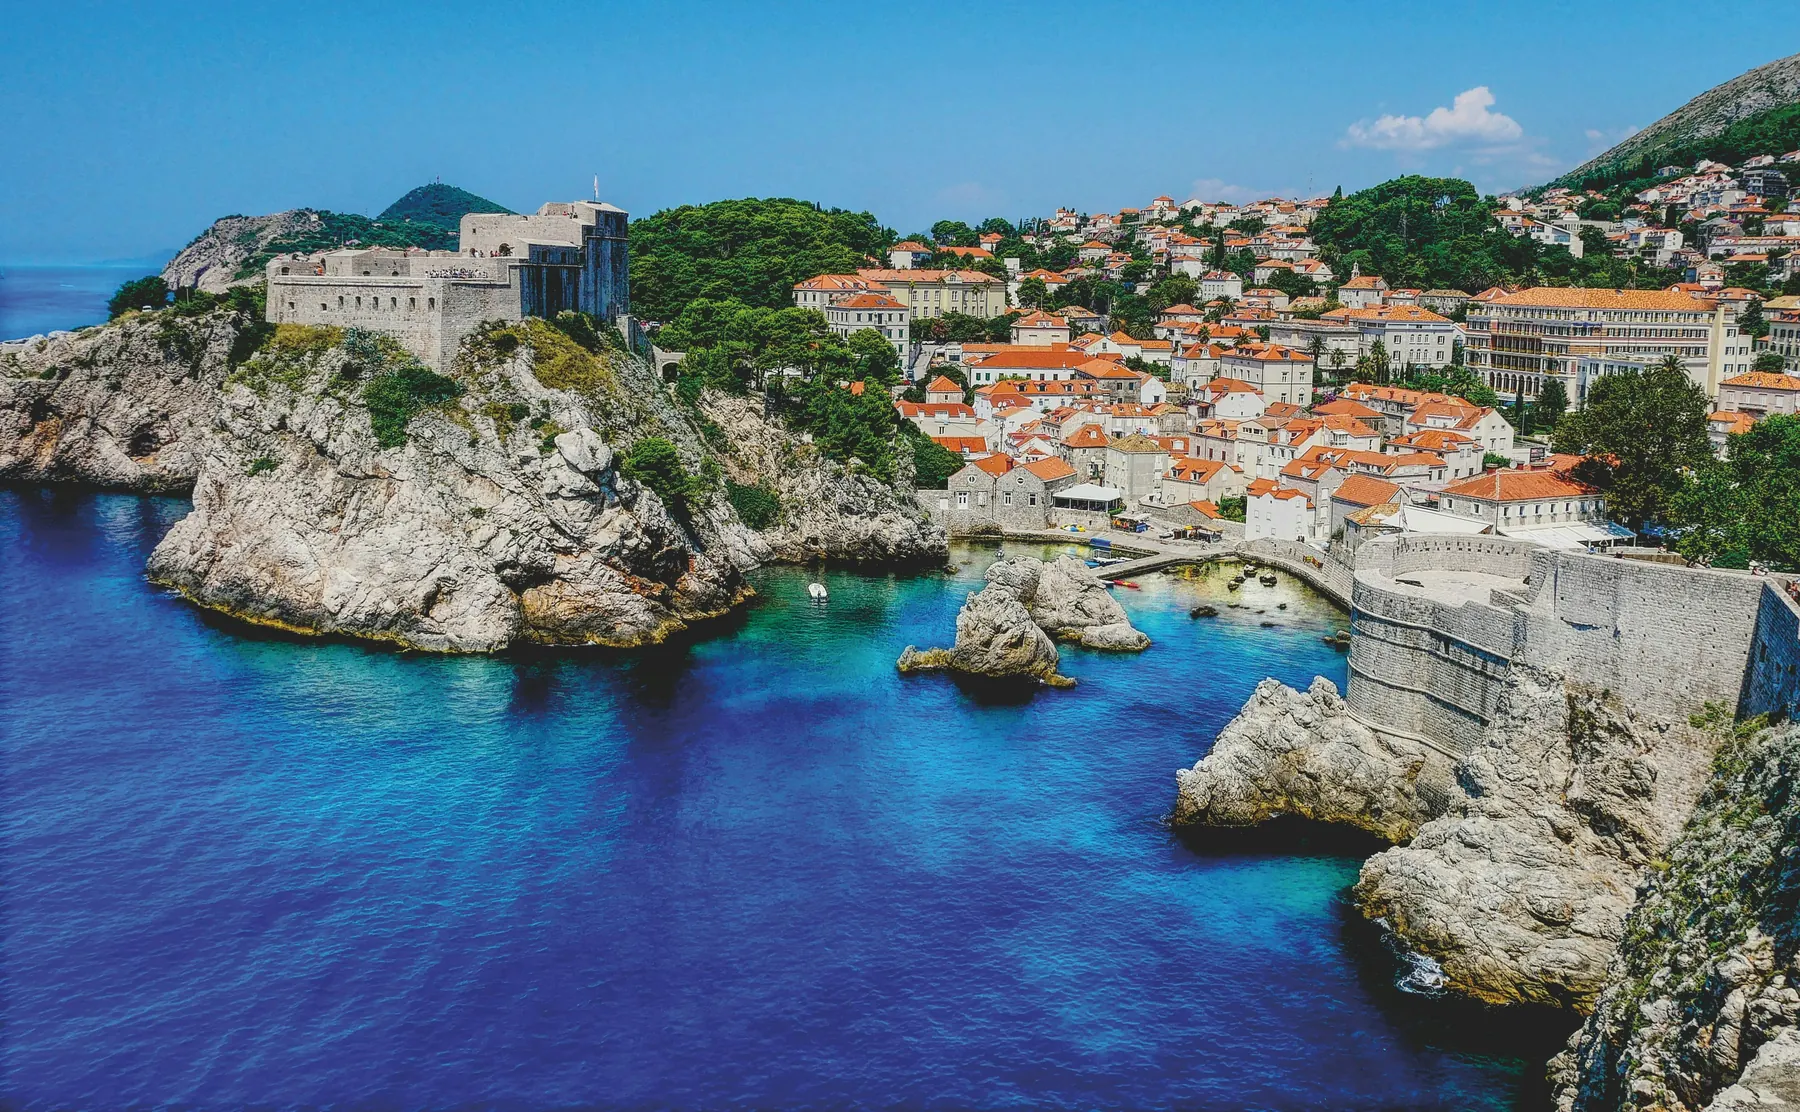
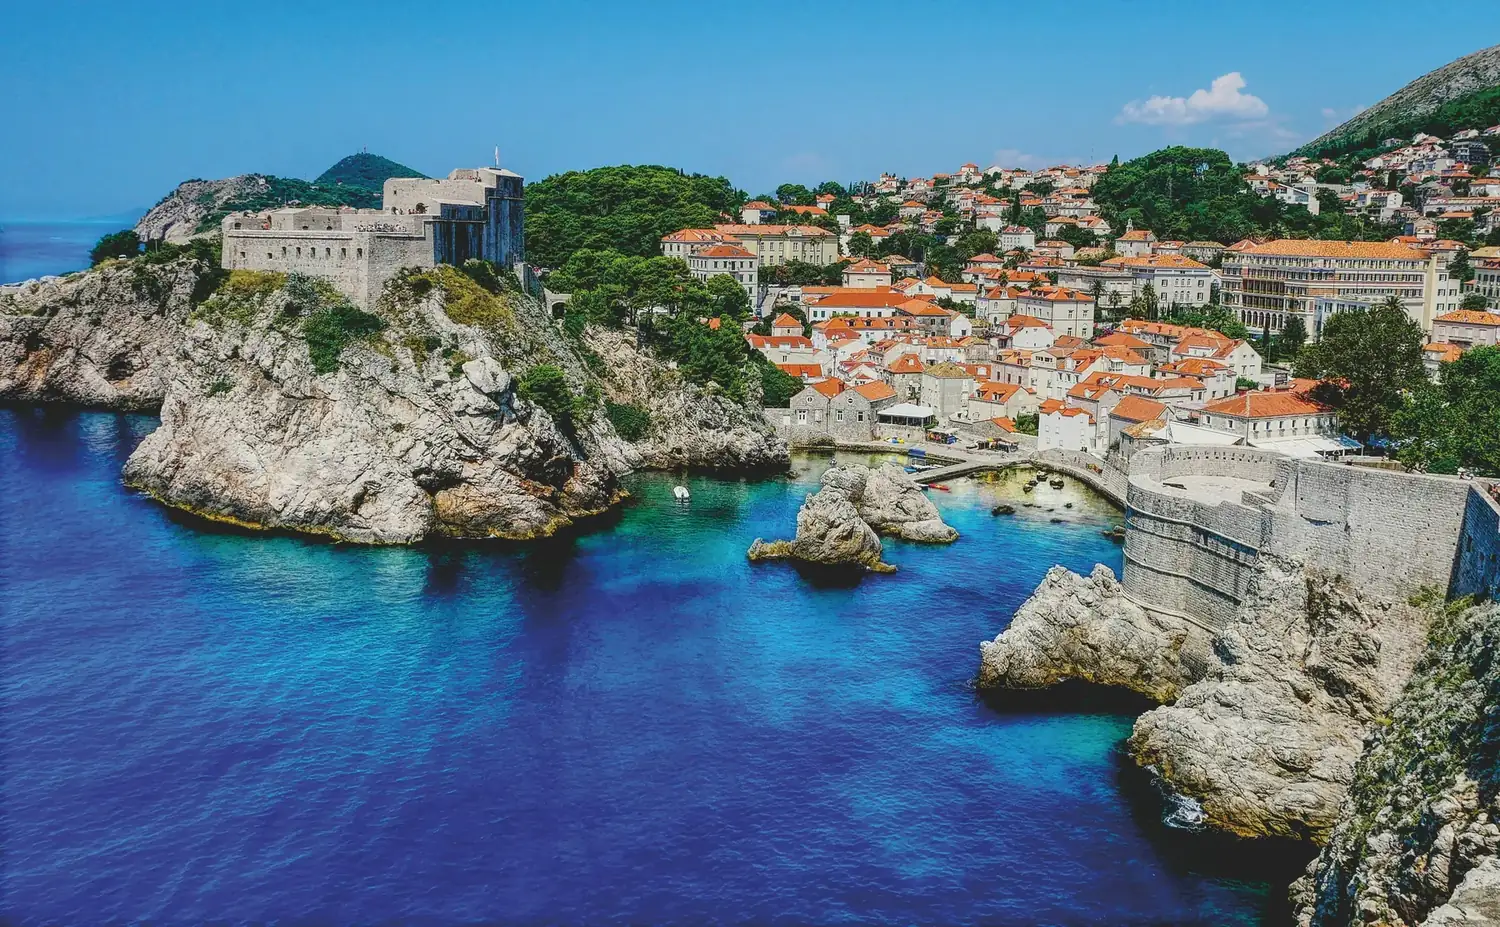
SEO + performance pass
Performance:
- Recompress heavy images (beyond 634->297KB, lovrijenac 453->241KB,
  DubrovnikTale 409->131KB, coast 254->134KB, dubrovnik 175->88KB) ~1MB saved
- Add width/height to all 15 images (prevents layout shift / CLS)
- Load Google Fonts non-render-blocking (media=print onload + noscript)
- Add .htaccess: gzip/brotli compression, 1-year asset caching,
  HTTPS + non-www redirects, security headers, block .git/source files

SEO:
- Add robots.txt and sitemap.xml
- Wrap page content in a <main> landmark
- Add og:image width/height for richer social previews

diff --git a/index.html b/index.html
@@ -22,6 +22,8 @@
 <meta property="og:title" content="Ragusa Tuk Tours — Private Tuk Tuk Tours of Dubrovnik" />
 <meta property="og:description" content="Private, eco-friendly Tuk Tuk journeys through Dubrovnik. The Old Town, Mount Srđ, hidden coves and panoramic Adriatic views — with a local guide." />
 <meta property="og:image" content="https://ragusatuktours.hr/assets/tuktuk-hero-wide.webp" />
+<meta property="og:image:width" content="1920" />
+<meta property="og:image:height" content="1440" />
 <meta property="og:image:alt" content="Our electric tuk tuk overlooking Dubrovnik Old Town and the Adriatic" />
 <meta property="og:locale" content="en_US" />
 
@@ -39,7 +41,8 @@
 <link rel="preconnect" href="https://fonts.gstatic.com" crossorigin />
 <link rel="preload" as="image" href="assets/tuktuk-hero.webp" media="(max-width: 900px)" fetchpriority="high" />
 <link rel="preload" as="image" href="assets/tuktuk-hero-wide.webp" media="(min-width: 901px)" fetchpriority="high" />
-<link href="https://fonts.googleapis.com/css2?family=Instrument+Serif:ital@0;1&family=Inter:wght@300;400;500;600&display=swap" rel="stylesheet" />
+<link rel="stylesheet" href="https://fonts.googleapis.com/css2?family=Instrument+Serif:ital@0;1&family=Inter:wght@300;400;500;600&display=swap" media="print" onload="this.media='all'" />
+<noscript><link rel="stylesheet" href="https://fonts.googleapis.com/css2?family=Instrument+Serif:ital@0;1&family=Inter:wght@300;400;500;600&display=swap" /></noscript>
 
 
 <!-- Structured data: TravelAgency + Tour offerings -->
@@ -982,7 +985,7 @@
     </div>
 
     <a class="nav-logo" href="#top" aria-label="Ragusa Tuk Tours home">
-      <img src="assets/logo.webp" alt="Ragusa Tuk Tours" />
+      <img width="600" height="600" src="assets/logo.webp" alt="Ragusa Tuk Tours" />
       <span class="marque">Ragusa <em>Tuk Tours</em></span>
     </a>
 
@@ -1019,11 +1022,12 @@
 </div>
 
 <!-- ======================== HERO ======================== -->
+<main>
 <section class="hero" id="top">
   <div class="hero-media">
     <picture>
       <source media="(min-width: 901px)" srcset="assets/tuktuk-hero-wide.webp" />
-      <img src="assets/tuktuk-hero.webp" alt="Our electric tuk tuk overlooking Dubrovnik Old Town and the Adriatic" fetchpriority="high" decoding="async" />
+      <img width="1500" height="2000" src="assets/tuktuk-hero.webp" alt="Our electric tuk tuk overlooking Dubrovnik Old Town and the Adriatic" fetchpriority="high" decoding="async" />
     </picture>
   </div>
   <div class="hero-grid">
@@ -1167,7 +1171,7 @@
       </a>
     </div>
     <div class="tour-photo">
-      <img src="assets/Citywalls.webp" alt="Dubrovnik city walls" loading="lazy" decoding="async" />
+      <img width="736" height="1104" src="assets/Citywalls.webp" alt="Dubrovnik city walls" loading="lazy" decoding="async" />
     </div>
   </article>
 
@@ -1188,7 +1192,7 @@
       </a>
     </div>
     <div class="tour-photo">
-      <img src="assets/DbkSunset.webp" alt="Golden sunset" loading="lazy" decoding="async" />
+      <img width="736" height="414" src="assets/DbkSunset.webp" alt="Golden sunset" loading="lazy" decoding="async" />
     </div>
   </article>
 
@@ -1209,14 +1213,14 @@
       </a>
     </div>
     <div class="tour-photo">
-      <img src="assets/DubrovnikTale.webp" alt="Dubrovnik tale by tuk tuk — Old Town framed through the ancient walls" loading="lazy" decoding="async" />
+      <img width="1080" height="1620" src="assets/DubrovnikTale.webp" alt="Dubrovnik tale by tuk tuk — Old Town framed through the ancient walls" loading="lazy" decoding="async" />
     </div>
   </article>
 </section>
 
 <!-- ======================== CINEMA ======================== -->
 <section class="cinema">
-  <img src="assets/beyond.webp" alt="Dubrovnik's ancient city walls above a turquoise cove" loading="lazy" decoding="async" />
+  <img width="1500" height="1125" src="assets/beyond.webp" alt="Dubrovnik's ancient city walls above a turquoise cove" loading="lazy" decoding="async" />
   <div class="cinema-copy">
     <div class="top">
       <span>Interlude</span>
@@ -1338,42 +1342,42 @@
 
     <div class="gal-grid reveal">
       <div class="gal-cell g1">
-        <img src="assets/dubrovnik.webp" alt="Dubrovnik Old Town at dusk" loading="lazy" decoding="async" />
+        <img width="1500" height="999" src="assets/dubrovnik.webp" alt="Dubrovnik Old Town at dusk" loading="lazy" decoding="async" />
         <span class="num">Plate 01</span>
         <span class="cap">Old Town, last light</span>
       </div>
       <div class="gal-cell g2">
-        <img src="assets/lovrijenac.webp" alt="Fort Lovrijenac and the coast" loading="lazy" decoding="async" />
+        <img width="1500" height="927" src="assets/lovrijenac.webp" alt="Fort Lovrijenac and the coast" loading="lazy" decoding="async" />
         <span class="num">Plate 02</span>
         <span class="cap">Fort Lovrijenac</span>
       </div>
       <div class="gal-cell g3">
-        <img src="assets/coast.webp" alt="The Adriatic coast" loading="lazy" decoding="async" />
+        <img width="1500" height="998" src="assets/coast.webp" alt="The Adriatic coast" loading="lazy" decoding="async" />
         <span class="num">Plate 03</span>
         <span class="cap">Along the coast road</span>
       </div>
       <div class="gal-cell g4">
-        <img src="assets/srd.webp" alt="View from Mount Srđ" loading="lazy" decoding="async" />
+        <img width="1350" height="1800" src="assets/srd.webp" alt="View from Mount Srđ" loading="lazy" decoding="async" />
         <span class="num">Plate 04</span>
         <span class="cap">From the ridge</span>
       </div>
       <div class="gal-cell g5">
-        <img src="assets/DbkSunset.webp" alt="Dubrovnik sunset" loading="lazy" decoding="async" />
+        <img width="736" height="414" src="assets/DbkSunset.webp" alt="Dubrovnik sunset" loading="lazy" decoding="async" />
         <span class="num">Plate 05</span>
         <span class="cap">A golden hour, unscripted</span>
       </div>
       <div class="gal-cell g6">
-        <img src="assets/gallery-bridge.webp" alt="Our tuk tuk on the bridge with Dubrovnik beyond" loading="lazy" decoding="async" />
+        <img width="1500" height="1125" src="assets/gallery-bridge.webp" alt="Our tuk tuk on the bridge with Dubrovnik beyond" loading="lazy" decoding="async" />
         <span class="num">Plate 06</span>
         <span class="cap">Our tuk tuk, on the road</span>
       </div>
       <div class="gal-cell g7">
-        <img src="assets/gallery-bay.webp" alt="The tuk tuk above the bay, Old Town across the water" loading="lazy" decoding="async" />
+        <img width="1125" height="1500" src="assets/gallery-bay.webp" alt="The tuk tuk above the bay, Old Town across the water" loading="lazy" decoding="async" />
         <span class="num">Plate 07</span>
         <span class="cap">Above the bay</span>
       </div>
       <div class="gal-cell g8">
-        <img src="assets/gallery-water.webp" alt="The tuk tuk beside the Adriatic coastline" loading="lazy" decoding="async" />
+        <img width="1500" height="1125" src="assets/gallery-water.webp" alt="The tuk tuk beside the Adriatic coastline" loading="lazy" decoding="async" />
         <span class="num">Plate 08</span>
         <span class="cap">By the water's edge</span>
       </div>
@@ -1441,11 +1445,13 @@
   </div>
 </section>
 
+</main>
+
 <!-- ======================== FOOTER ======================== -->
 <footer class="bigmark">
   <div class="wrap">
     <div class="bigmark-inner">
-      <div class="lg"><img src="assets/logo.webp" alt="Ragusa Tuk Tours" loading="lazy" decoding="async" /></div>
+      <div class="lg"><img width="600" height="600" src="assets/logo.webp" alt="Ragusa Tuk Tours" loading="lazy" decoding="async" /></div>
       <div class="title">Ragusa <em>Tuk Tours</em></div>
       <div class="year">MMXXVI</div>
     </div>
